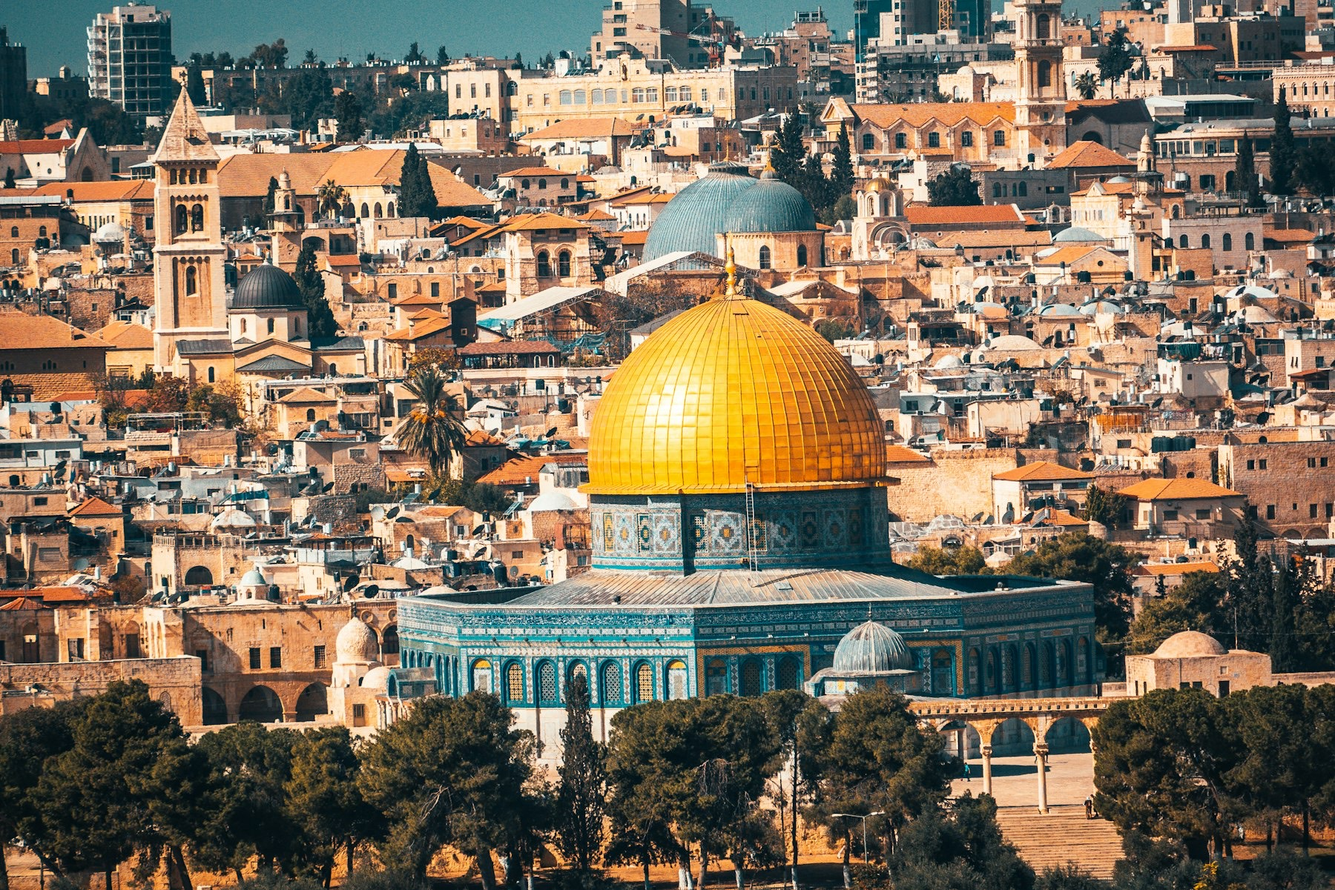
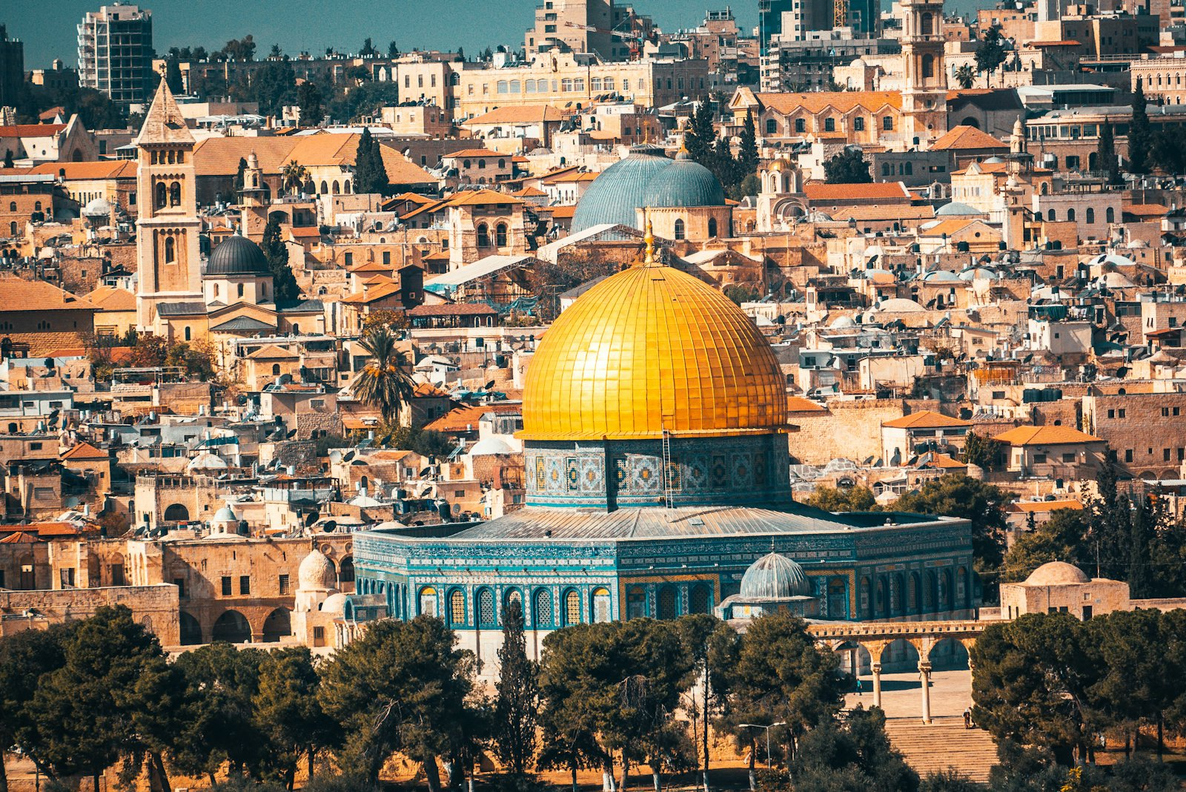
이스라엘 사진 용량 줄이기 (633KB, 1600px)

diff --git a/index.html b/index.html
@@ -13,7 +13,7 @@
   <link rel="preconnect" href="https://fonts.gstatic.com" crossorigin>
   <link rel="stylesheet" href="https://cdn.jsdelivr.net/gh/orioncactus/pretendard@v1.3.9/dist/web/variable/pretendardvariable-dynamic-subset.min.css">
   <link href="https://fonts.googleapis.com/css2?family=Cinzel:wght@500;600&family=Cormorant+Garamond:ital,wght@1,500;1,600&family=Hahmlet:wght@200;300;600;700&family=Noto+Serif+KR:wght@500;700&display=swap" rel="stylesheet">
-  <link rel="stylesheet" href="assets/style.css?v=8">
+  <link rel="stylesheet" href="assets/style.css?v=9">
 </head>
 <body>
 
@@ -354,7 +354,7 @@
             <figcaption><span class="rg-cap-en">Jordan</span><span class="rg-facts"><span><b>1,200만</b>인구</span><span><b>약 0.3%</b>개신교</span></span></figcaption>
           </figure>
           <figure class="rg-pic" data-i="3">
-            <img src="assets/img/israel-jerusalem.jpg" alt="이스라엘 풍경" loading="lazy">
+            <img src="assets/img/israel-jerusalem.jpg?v=2" alt="이스라엘 풍경" loading="lazy">
             <figcaption><span class="rg-cap-en">Israel</span><span class="rg-facts"><span><b>1,020만</b>인구</span><span><b>약 1만 5천</b>메시아닉 신자</span></span></figcaption>
           </figure>
           <span class="rg-count"><b>01</b> / 04</span>
@@ -440,7 +440,7 @@
   </div>
 </footer>
 
-<script src="assets/content.js?v=8"></script>
-<script src="assets/site.js?v=8"></script>
+<script src="assets/content.js?v=9"></script>
+<script src="assets/site.js?v=9"></script>
 </body>
 </html>

diff --git a/prayer.html b/prayer.html
@@ -13,7 +13,7 @@
   <link rel="preconnect" href="https://fonts.gstatic.com" crossorigin>
   <link rel="stylesheet" href="https://cdn.jsdelivr.net/gh/orioncactus/pretendard@v1.3.9/dist/web/variable/pretendardvariable-dynamic-subset.min.css">
   <link href="https://fonts.googleapis.com/css2?family=Cinzel:wght@500;600&family=Cormorant+Garamond:ital,wght@1,500;1,600&family=Hahmlet:wght@200;300;600;700&family=Noto+Serif+KR:wght@500;700&display=swap" rel="stylesheet">
-  <link rel="stylesheet" href="assets/style.css?v=8">
+  <link rel="stylesheet" href="assets/style.css?v=9">
 </head>
 <body>
 
@@ -180,7 +180,7 @@
   <section class="pc" id="israel" data-country>
     <div class="wrap">
       <div class="pc-banner">
-        <img src="assets/img/israel-jerusalem.jpg" alt="이스라엘 풍경" loading="lazy">
+        <img src="assets/img/israel-jerusalem.jpg?v=2" alt="이스라엘 풍경" loading="lazy">
         <div class="pc-banner-in">
           <h2><span class="pc-en">Israel</span><span class="pc-ko">이스라엘</span></h2>
           <span class="pc-facts"><span><b>약 1,020만</b>인구</span><span><b>히브리어</b>주요 언어</span><span><b>약 1만 5천</b>메시아닉 신자</span></span>
@@ -245,7 +245,7 @@
   </div>
 </footer>
 
-<script src="assets/content.js?v=8"></script>
-<script src="assets/site.js?v=8"></script>
+<script src="assets/content.js?v=9"></script>
+<script src="assets/site.js?v=9"></script>
 </body>
 </html>

diff --git a/levites.html b/levites.html
@@ -13,7 +13,7 @@
   <link rel="preconnect" href="https://fonts.gstatic.com" crossorigin>
   <link rel="stylesheet" href="https://cdn.jsdelivr.net/gh/orioncactus/pretendard@v1.3.9/dist/web/variable/pretendardvariable-dynamic-subset.min.css">
   <link href="https://fonts.googleapis.com/css2?family=Cinzel:wght@500;600&family=Cormorant+Garamond:ital,wght@1,500;1,600&family=Hahmlet:wght@200;300;600;700&family=Noto+Serif+KR:wght@500;700&display=swap" rel="stylesheet">
-  <link rel="stylesheet" href="assets/style.css?v=8">
+  <link rel="stylesheet" href="assets/style.css?v=9">
 </head>
 <body>
 
@@ -335,7 +335,7 @@
   </div>
 </footer>
 
-<script src="assets/content.js?v=8"></script>
-<script src="assets/site.js?v=8"></script>
+<script src="assets/content.js?v=9"></script>
+<script src="assets/site.js?v=9"></script>
 </body>
 </html>

diff --git a/news.html b/news.html
@@ -13,7 +13,7 @@
   <link rel="preconnect" href="https://fonts.gstatic.com" crossorigin>
   <link rel="stylesheet" href="https://cdn.jsdelivr.net/gh/orioncactus/pretendard@v1.3.9/dist/web/variable/pretendardvariable-dynamic-subset.min.css">
   <link href="https://fonts.googleapis.com/css2?family=Cinzel:wght@500;600&family=Cormorant+Garamond:ital,wght@1,500;1,600&family=Hahmlet:wght@200;300;600;700&family=Noto+Serif+KR:wght@500;700&display=swap" rel="stylesheet">
-  <link rel="stylesheet" href="assets/style.css?v=8">
+  <link rel="stylesheet" href="assets/style.css?v=9">
 </head>
 <body>
 
@@ -88,7 +88,7 @@
   </div>
 </footer>
 
-<script src="assets/content.js?v=8"></script>
-<script src="assets/site.js?v=8"></script>
+<script src="assets/content.js?v=9"></script>
+<script src="assets/site.js?v=9"></script>
 </body>
 </html>
